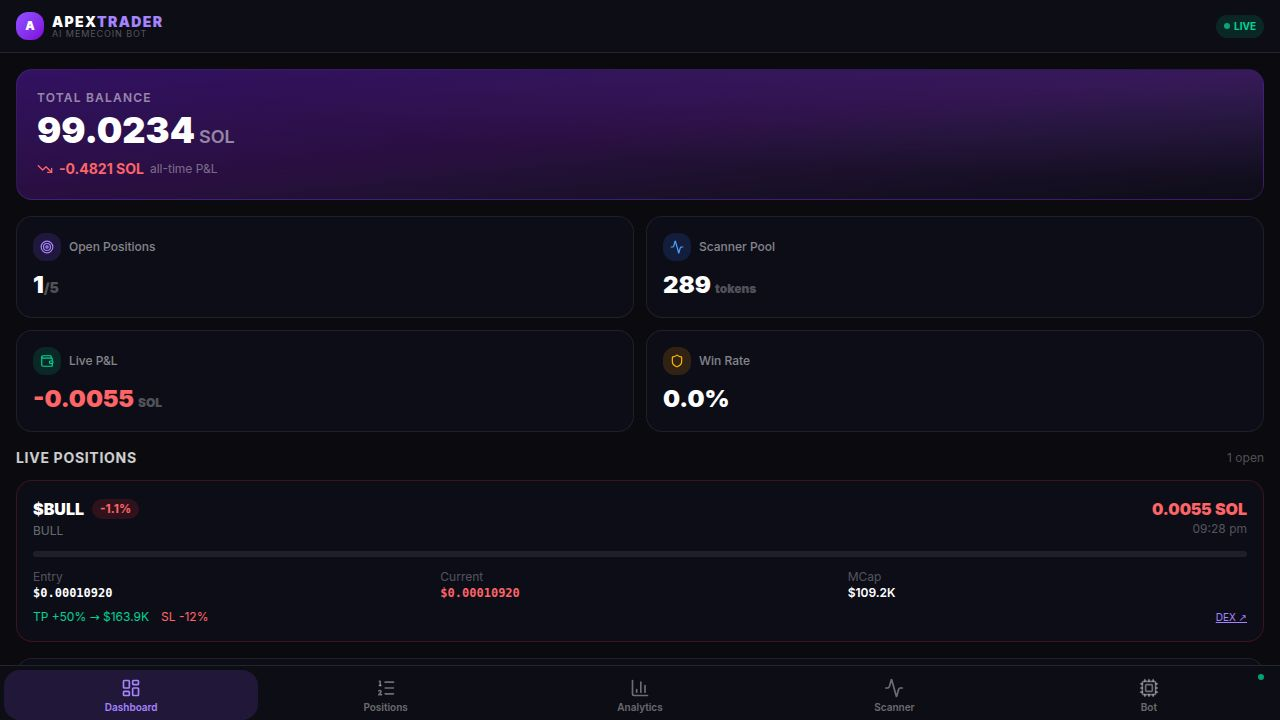
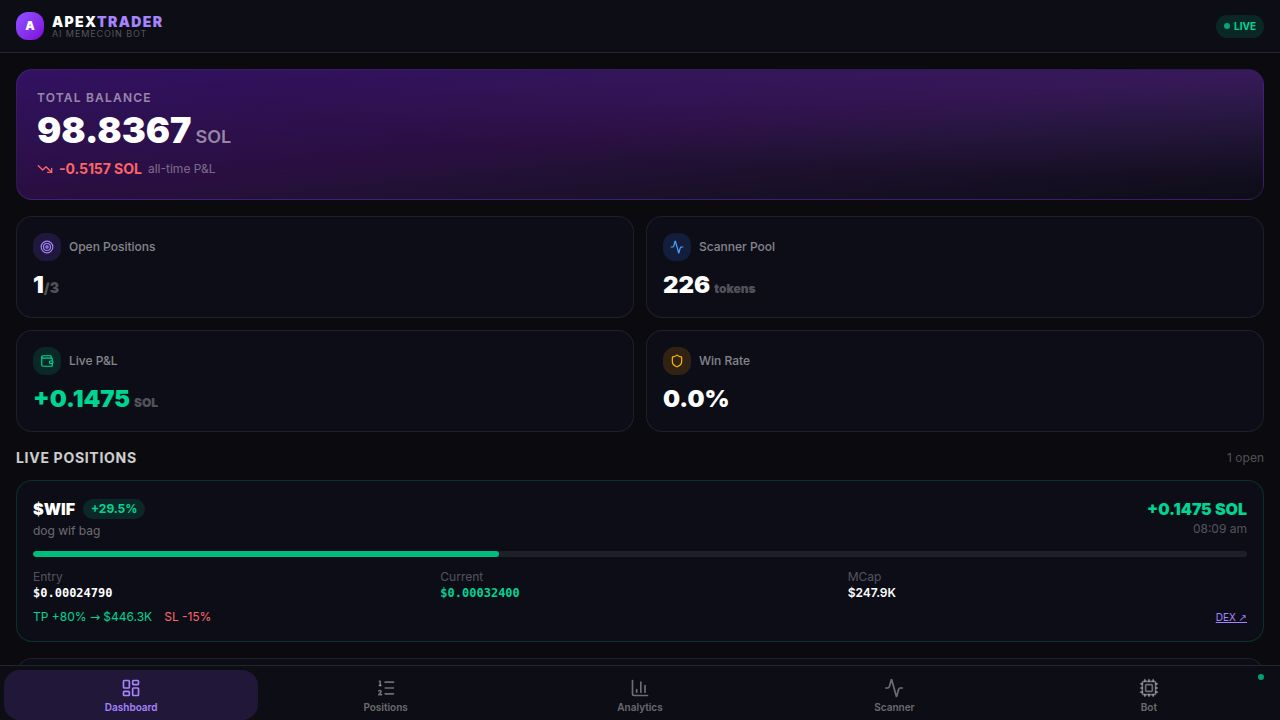
Add startup confirmation message and polling control for Telegram bot
Introduce TELEGRAM_POLLING_DISABLED environment variable to control bot polling on multiple instances and add a startup message to confirm bot functionality.

Replit-Commit-Author: Agent
Replit-Commit-Session-Id: 75b967a6-c6da-48a0-8406-cd61d83f0c36
Replit-Commit-Checkpoint-Type: full_checkpoint
Replit-Commit-Event-Id: 84098966-7b7b-4220-8a63-73f34fb6c6b4
Replit-Commit-Screenshot-Url: https://storage.googleapis.com/screenshot-production-us-central1/51d6910b-64fe-44f9-9ff7-6b9fe31cf774/75b967a6-c6da-48a0-8406-cd61d83f0c36/Wo60S7M
Replit-Helium-Checkpoint-Created: true

diff --git a/artifacts/api-server/src/index.ts b/artifacts/api-server/src/index.ts
@@ -5,7 +5,7 @@ import { initWebSocketServer } from "./websocket/server.js";
 import { scannerService } from "./services/scanner.service.js";
 import { paperTradingService } from "./services/paper-trading.service.js";
 import { autoTraderService } from "./services/auto-trader.service.js";
-import { startCommandPolling, registerCommandHandler, toIST } from "./lib/telegram.js";
+import { startCommandPolling, registerCommandHandler, toIST, sendTelegram, isTelegramConfigured } from "./lib/telegram.js";
 
 const rawPort = process.env["PORT"] ?? "8080";
 const port = Number(rawPort);
@@ -196,6 +196,24 @@ server.listen(port, () => {
   startCommandPolling();
 
   logger.info("All services started");
+
+  // Send a startup confirmation to Telegram so you can verify the new bot token is working
+  if (isTelegramConfigured()) {
+    const env = process.env["RENDER"] ? "🌐 Render (Production)" : "💻 Replit (Dev)";
+    const polling = process.env["TELEGRAM_POLLING_DISABLED"] === "true"
+      ? "⏸️ Polling disabled on this instance"
+      : "✅ Polling active on this instance";
+    sendTelegram(
+      `🚀 <b>Apex Meme Trader — Bot Online</b>\n` +
+      `──────────────────────\n` +
+      `🌍 Environment: <b>${env}</b>\n` +
+      `📡 ${polling}\n` +
+      `🕐 ${toIST(new Date())}\n` +
+      `\n` +
+      `If you see this message, the new bot token is working correctly.\n` +
+      `Commands: /command1 /command2 /command3`,
+    ).catch(() => {/* already logged inside sendTelegram */});
+  }
 });
 
 server.on("error", (err) => {

diff --git a/artifacts/api-server/src/lib/telegram.ts b/artifacts/api-server/src/lib/telegram.ts
@@ -4,6 +4,11 @@ import { logger } from "./logger.js";
 const BOT_TOKEN = process.env["TELEGRAM_BOT_TOKEN"];
 const CHAT_ID = process.env["TELEGRAM_CHAT_ID"];
 
+// Set TELEGRAM_POLLING_DISABLED=true on whichever instance should NOT poll
+// (e.g. set it on the Replit dev server when Render is your production instance,
+//  or set it on Render if you want Replit to be the active bot)
+const POLLING_DISABLED = process.env["TELEGRAM_POLLING_DISABLED"] === "true";
+
 export function isTelegramConfigured(): boolean {
   return Boolean(BOT_TOKEN && CHAT_ID);
 }
@@ -101,6 +106,11 @@ async function pollUpdates(): Promise<void> {
 export function startCommandPolling(): void {
   if (!isTelegramConfigured()) {
     logger.info("Telegram command polling skipped — not configured");
+    return;
+  }
+
+  if (POLLING_DISABLED) {
+    logger.info("Telegram command polling skipped — TELEGRAM_POLLING_DISABLED=true");
     return;
   }
 